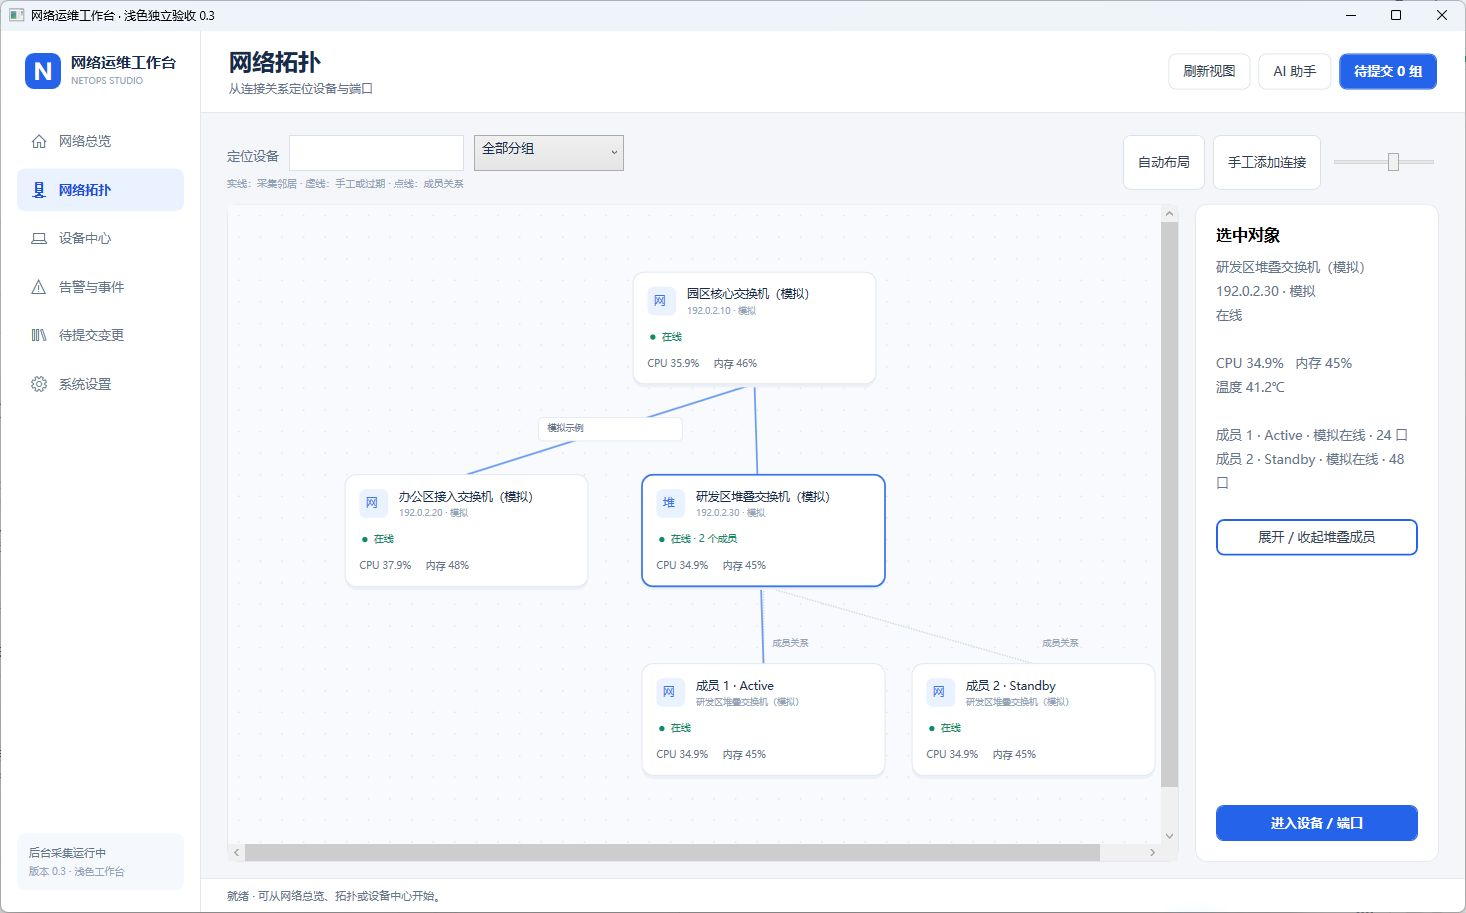
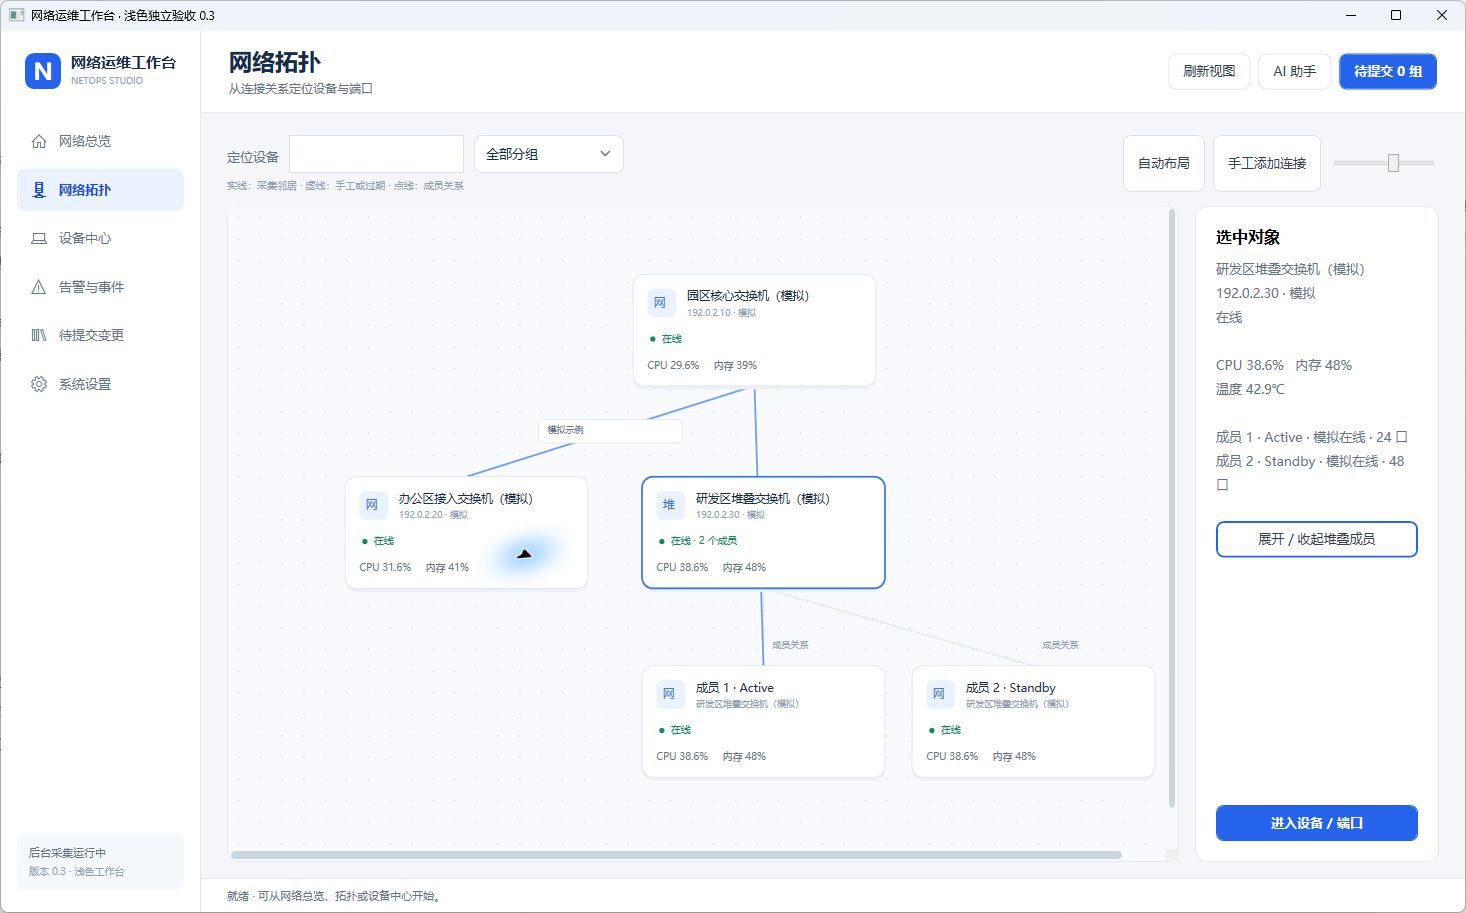
更新GitHub首页图文与新版界面展示

diff --git a/README.md b/README.md
@@ -1,10 +1,55 @@
 # 网络运维工作台 · NetOps Studio
 
-C# / .NET 10 / WPF 中文 Windows 桌面工具，面向交换机日常配置、跨厂商连接与 AI 辅助排障。仓库保持 **Private**。当前版本：**0.3.0 开发预览**。本版已完成浅色工作台、统一变更队列、可视化拓扑和后台设备监控。真实设备适配仍为实验性，未做真机认证。
+C# / .NET 10 / WPF 中文 Windows 桌面工具，将交换机日常配置、网络拓扑、设备监控与 AI 辅助排障放在同一个浅色工作台中。
+
+**当前版本：0.3.0 开发预览 · Windows x64 · 仓库保持 Private**
+
+[界面预览](#界面预览) · [功能清单](#本版功能) · [启动与验证](#启动与验证) · [配置步骤](#端口与堆叠操作) · [需求与兼容范围](docs/原方案需求对照.md)
+
+当前包含四家实验性图形化配置驱动；真实设备兼容性尚未做真机认证。下方截图来自独立模拟工作区，显示的设备、连接、指标与 MAC 均为示例。
 
 依据最初《网络配置平台构想》重构，采用正常配置顺序：**选择设备与连接 → 读取配置、接口与堆叠 → 选择单个或多个端口 → 编辑指定字段 → 审核差异和命令 → 备份与下发 → 回读验证 → 保存启动配置**。
 
 ![浅色网络总览](docs/截图/浅色网络总览-0.3.jpg)
+
+网络总览集中展示设备健康状态、CPU、内存与温度趋势；点击设备进入工作区，继续查看状态或编辑配置。
+
+## 界面预览
+
+### 从拓扑定位设备与堆叠成员
+
+支持设备搜索、分组、缩放、拖动与布局保存。选择节点查看设备信息，展开堆叠查看成员；从连接详情可跳转至设备及本地端口。自动邻居来自 LLDP/CDP，手工连接和过期记录另有标识。
+
+![可视化网络拓扑与双成员堆叠](docs/截图/拓扑与堆叠-0.3.jpg)
+
+图中点线表示成员关系；邻居连接尚不代表实时端口运行状态或流量。
+
+### 跨成员选择端口，统一编辑指定字段
+
+先读取设备配置，再逐口、按范围或按成员选择端口，选好后点击“编辑所选端口”。直接编辑描述、模式、PVID、允许 VLAN 或管理状态；未编辑字段保留各端口原值，点击“保留原值”可撤销对应字段的修改。
+
+![跨成员批量编辑中文端口描述](docs/截图/批量端口编辑-0.3.jpg)
+
+点击“加入待提交变更”只会记录草稿。端口、VLAN 与 MAC 可跨页面累计，随后按设备统一审核差异和命令，再备份、执行与回读。
+
+### MAC 地址逐行映射，提交后查看回读结果
+
+在表格填写 MAC、VLAN 和完整端口名称，也可以从所选端口生成映射行。下图为两条静态转发绑定的模拟回读结果，分别对应成员 1 和成员 2 的端口。
+
+![不同堆叠成员的 MAC 静态绑定回读](docs/截图/MAC绑定回读-0.3.jpg)
+
+静态转发绑定和源 MAC 白名单用途不同，支持范围及限制见 [MAC 绑定](#mac-绑定)。
+
+<details>
+<summary>查看浅色下拉菜单与控件细节</summary>
+
+下拉框采用白色圆角表面、浅蓝选中项和蓝色焦点提示；可输入 VLAN 的下拉框仍支持直接编辑。滚动条统一为细圆角样式，保留滚轮、拖动及横向滚动。
+
+![浅色圆角下拉菜单](docs/截图/浅色下拉菜单-0.3.jpg)
+
+</details>
+
+更多运行记录见 [桌面与自动验证](docs/验证记录.md)，实现范围见 [0.3 重构设计](docs/0.3重构设计.md)。
 
 ## 本版功能
 
@@ -114,6 +159,12 @@ docs/                     架构、需求对照、开发计划及验收记录
 ```
 
 ## 验证与更新记录
+
+### 2026-11-04 · GitHub 图文更新
+
+- 更新 README 首页介绍、阅读导航和 0.3 界面图文，补充总览监控、拓扑堆叠、跨成员批量编辑、MAC 回读及浅色控件说明。
+- 重新采集包含圆角下拉框、细滚动条和双成员展开效果的拓扑截图。
+- 更新仓库中文简介，明确模拟截图、真实设备适配边界和当前配置步骤；沿用已通过的 104 项功能验证，本次仅更新说明与展示图片。
 
 ### 2026-11-04 · 0.3.0
 
